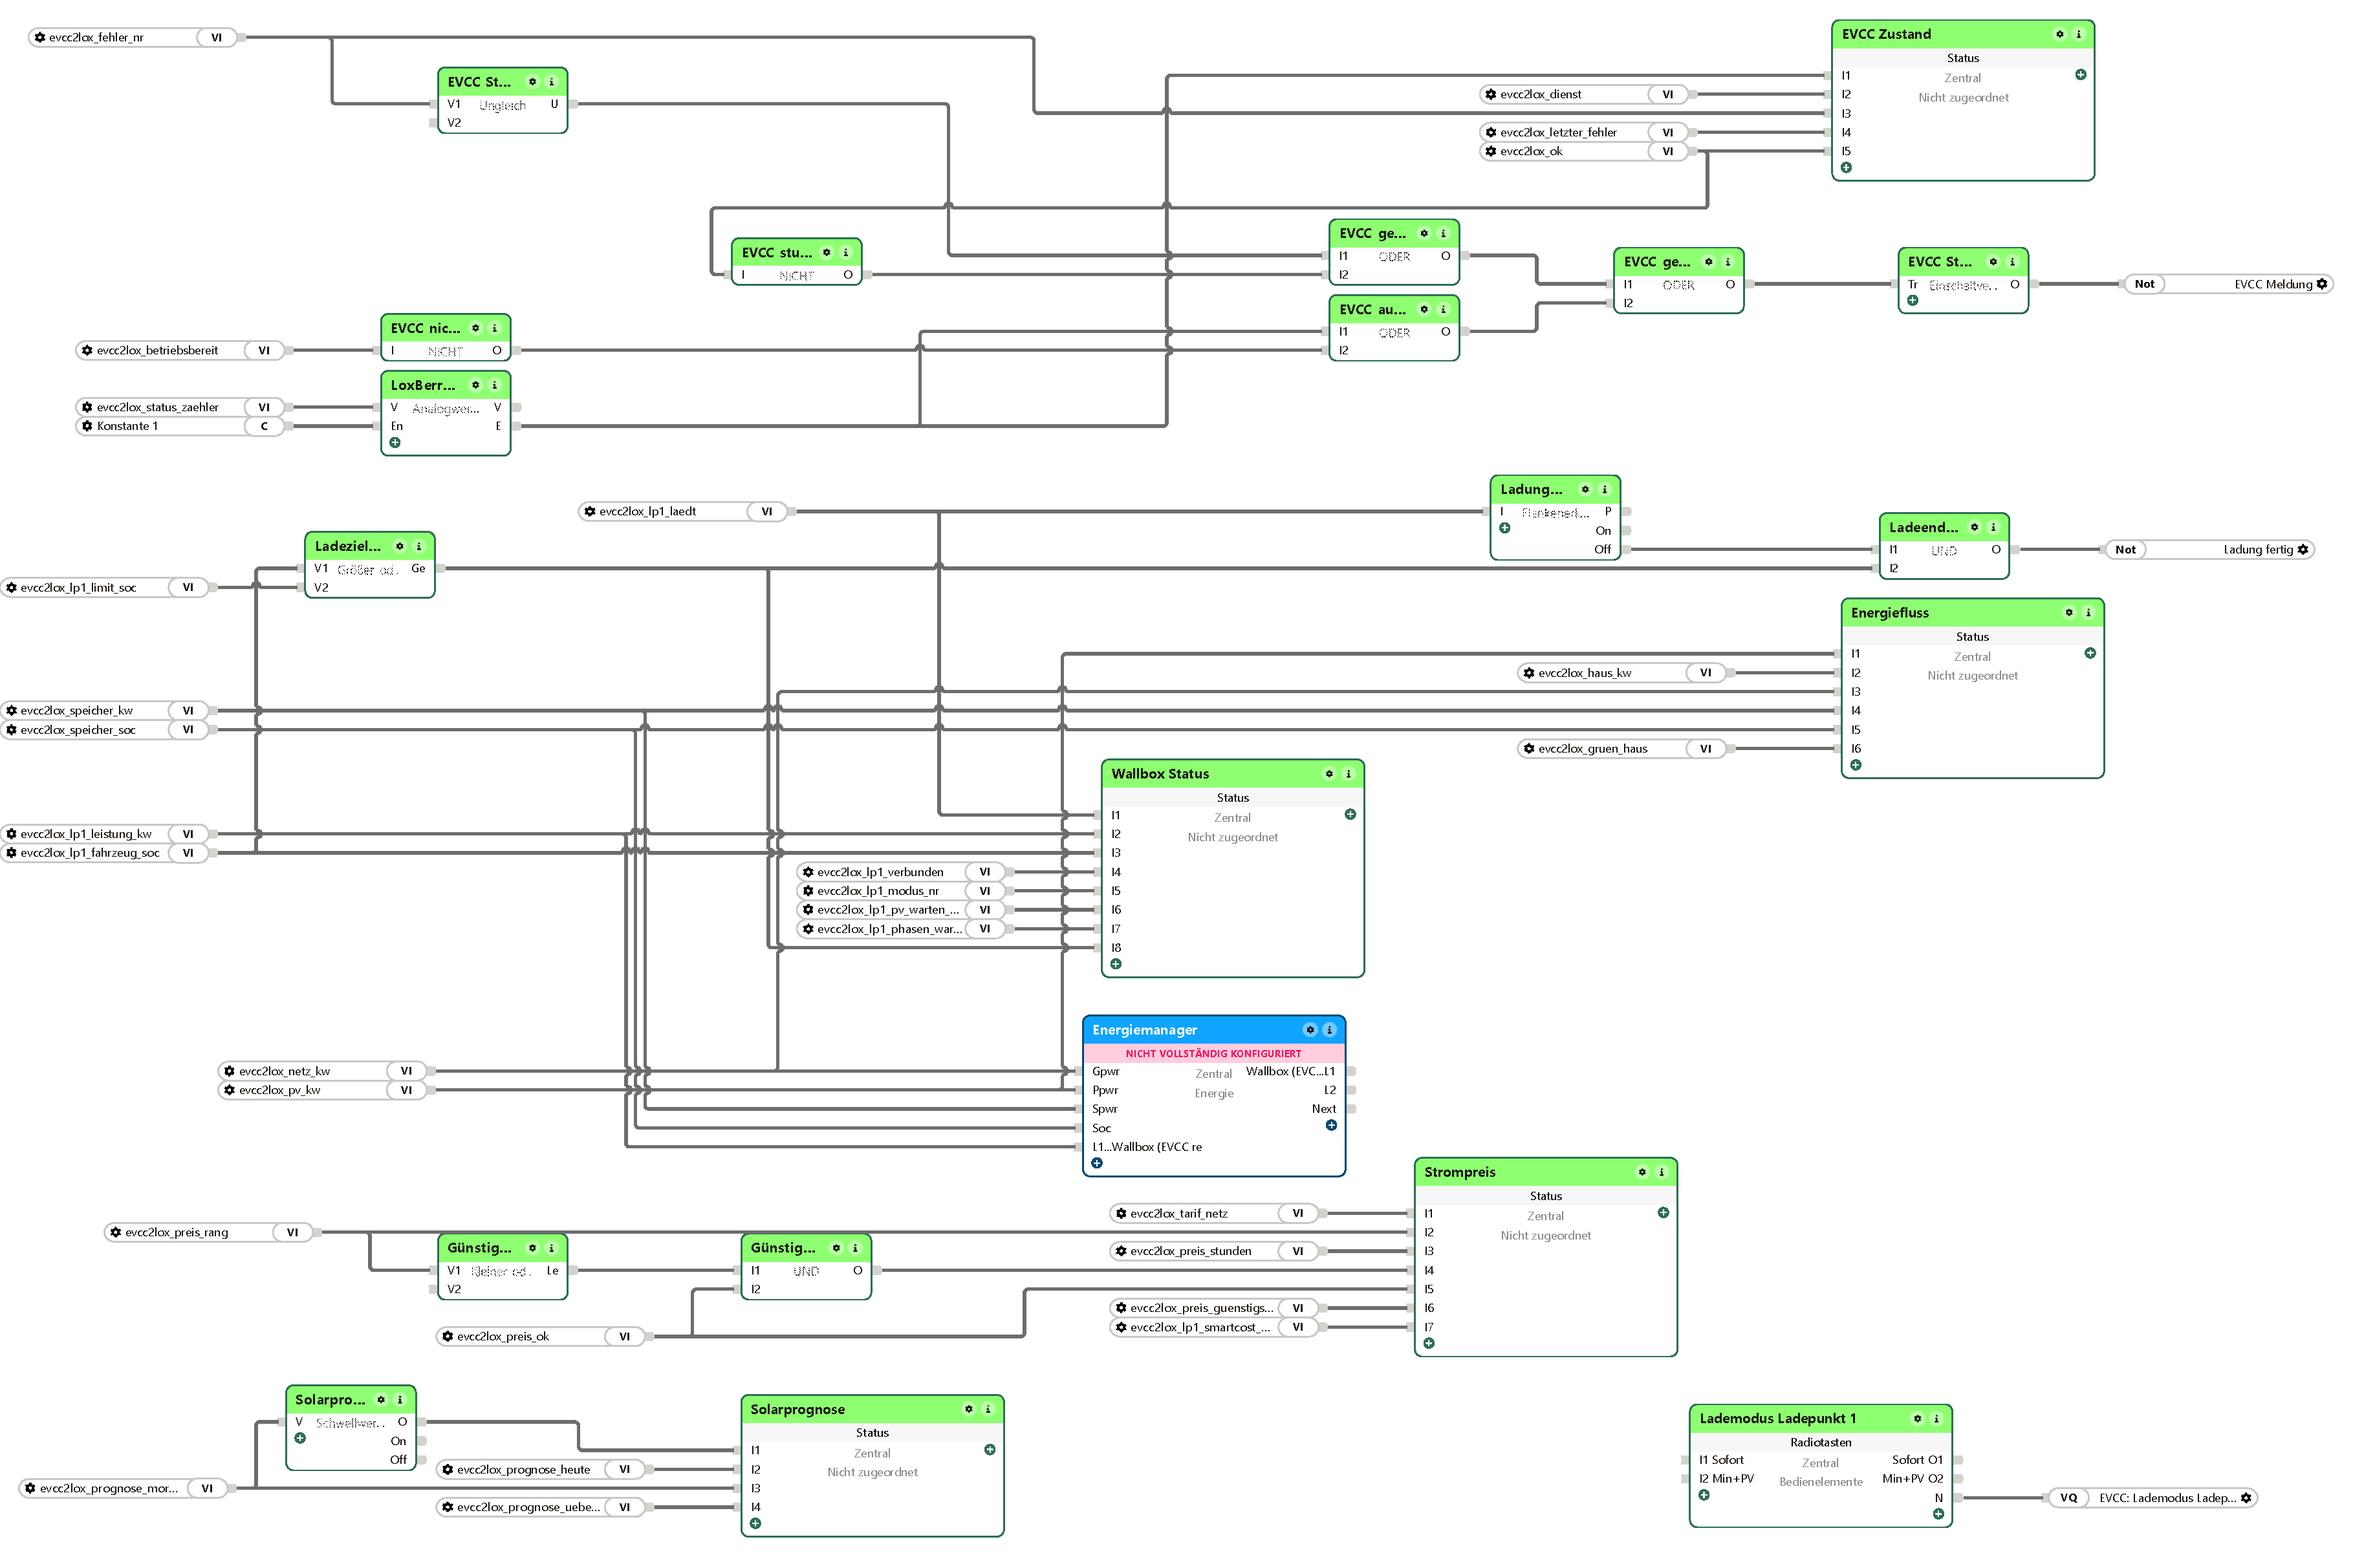
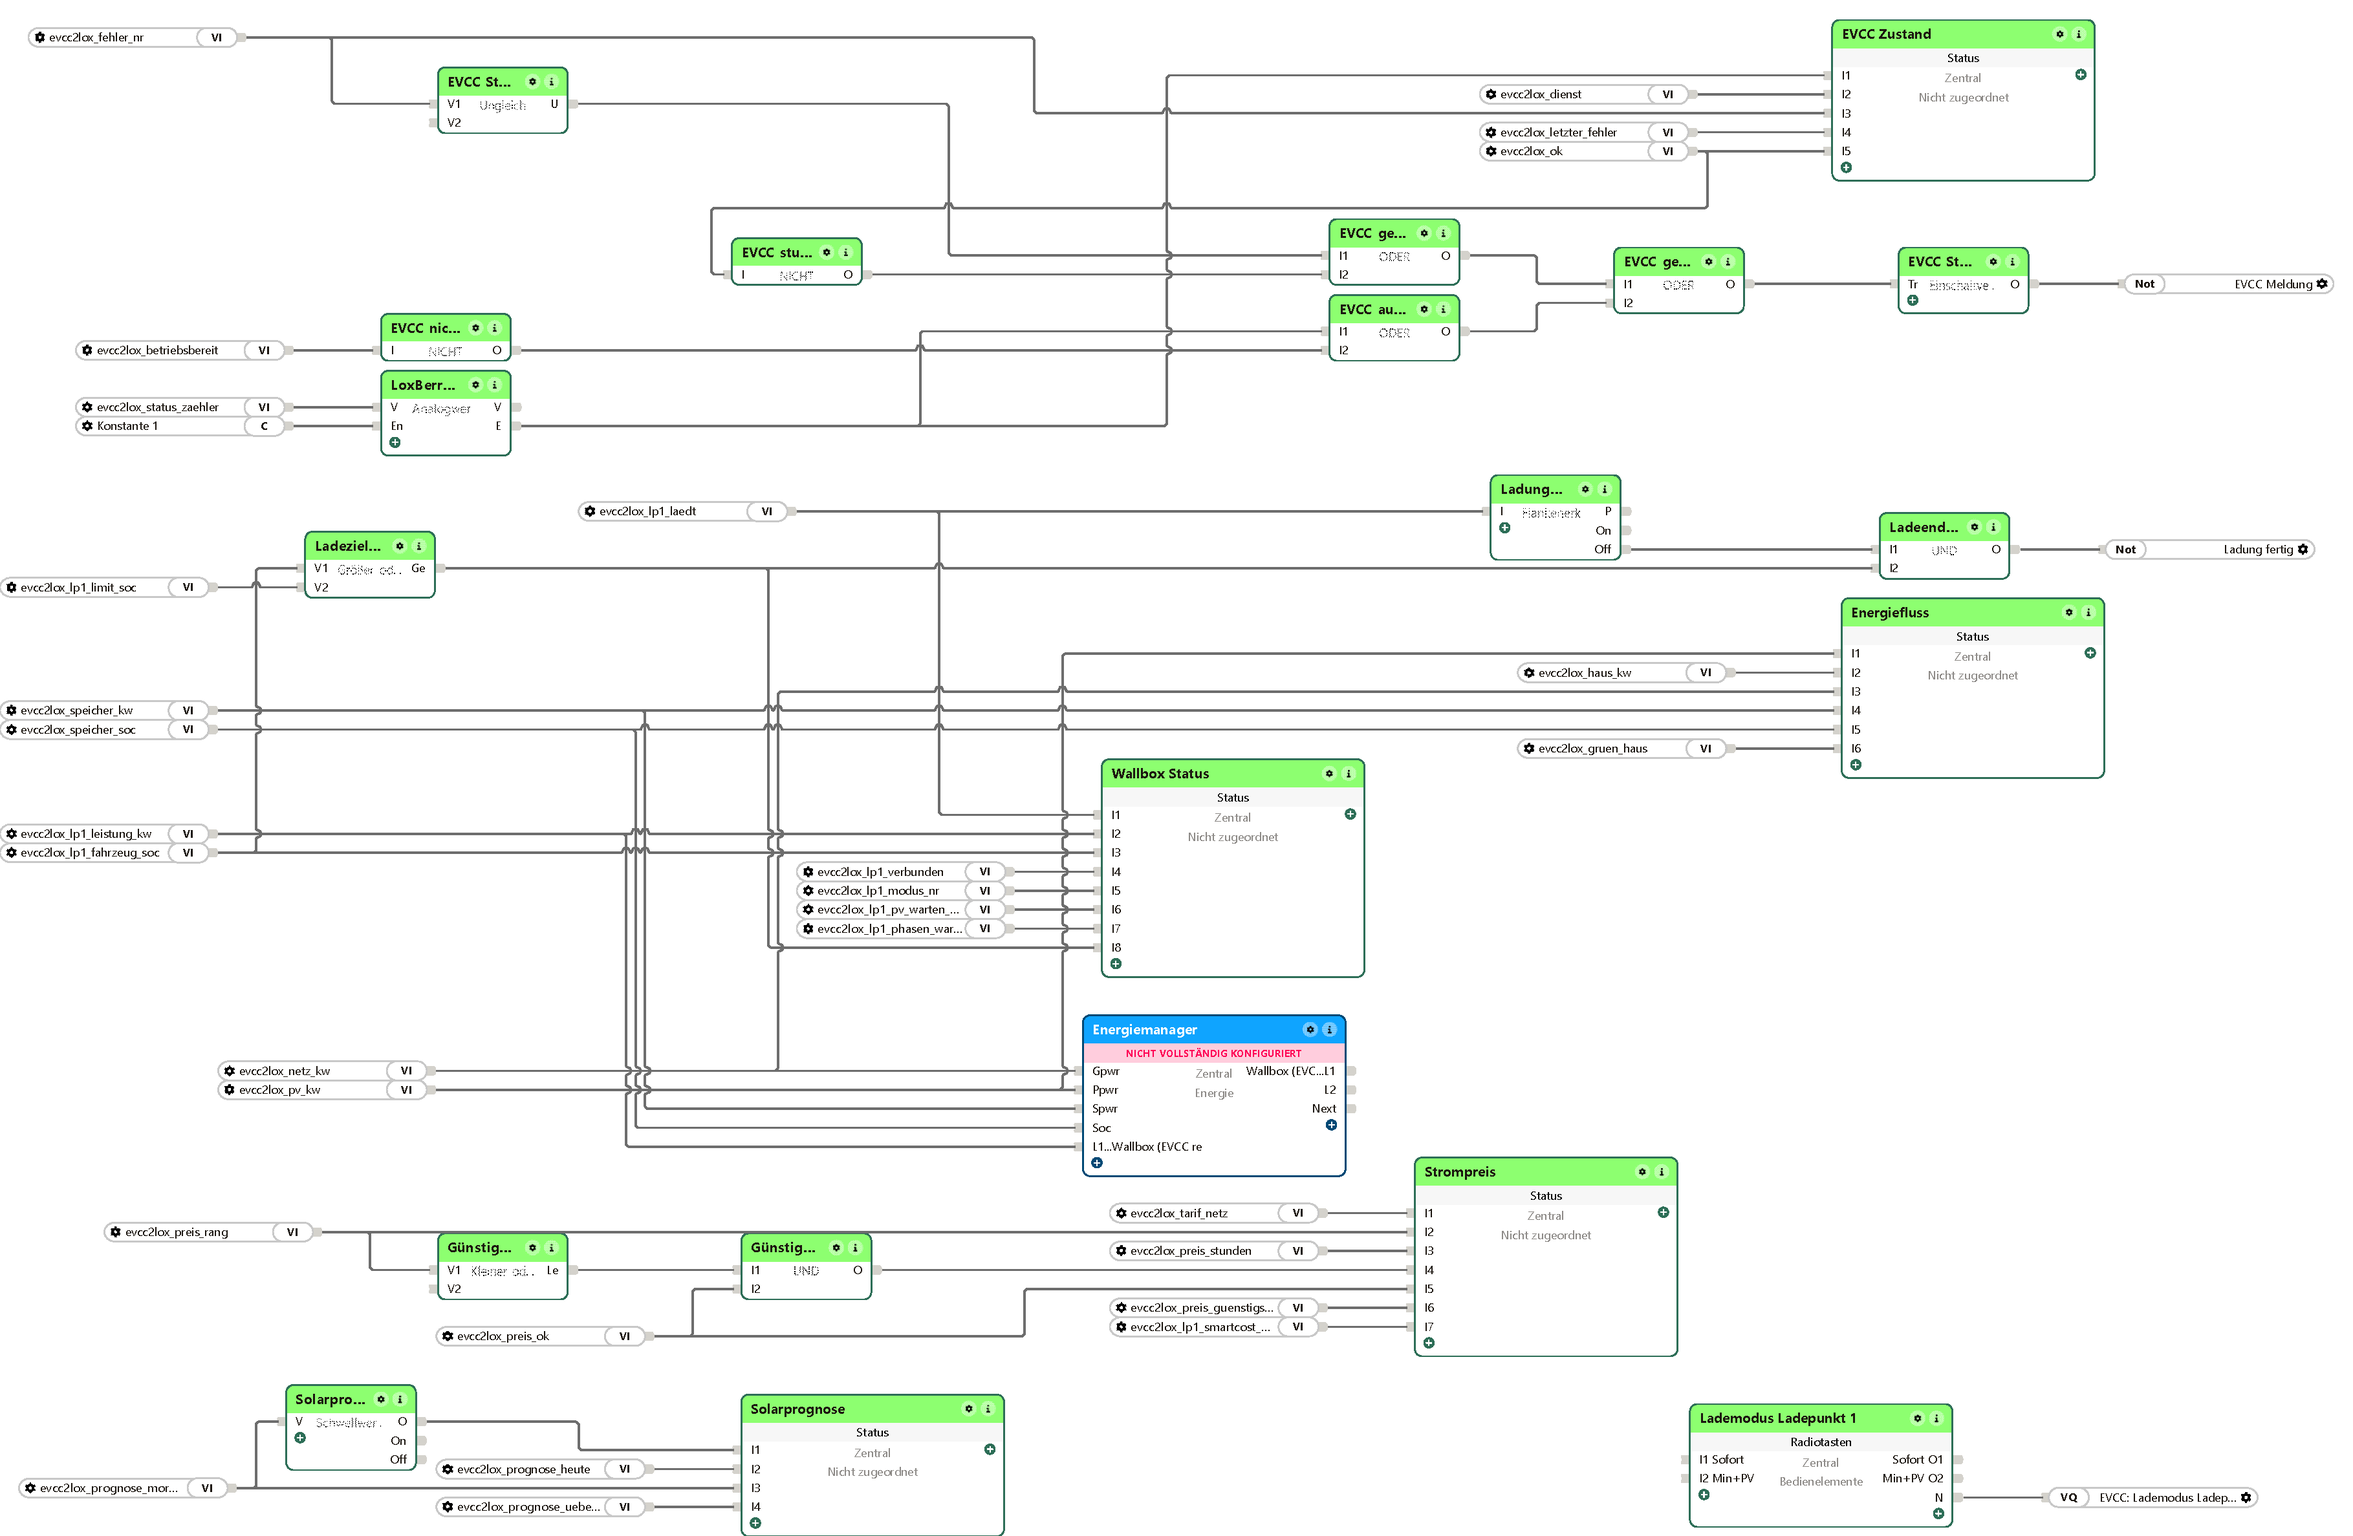
EVCC 0.9.49: Bilder der Einbindung erneuert (Musterprojekt 614cd0f)
Bilder der Einbindung erneuert: Das Bild der Hauptseite „EVCC“ zeigt die neu angeordnete Seite. Sonst keine Änderung gegen 0.9.48.

diff --git a/README.md b/README.md
@@ -9,6 +9,10 @@ Weg nach Loxone: EVCC rechnet in Watt und veröffentlicht unter eigenen Namen,
 der Energiemanager will Kilowatt an vier bestimmten Anschlüssen. Dieses Plugin
 ist der Übersetzer dazwischen.
 
+## Neu in 0.9.49
+
+Bilder der Einbindung erneuert: Das Bild der Hauptseite „EVCC“ zeigt die neu angeordnete Seite. Sonst keine Änderung gegen 0.9.48.
+
 ## Neu in 0.9.48
 
 Pflegefassung der Nachtwelle (29.10.2026): die gemeinsamen Module auf dem Hausstand. Werte, Themen und Befehle bleiben,
